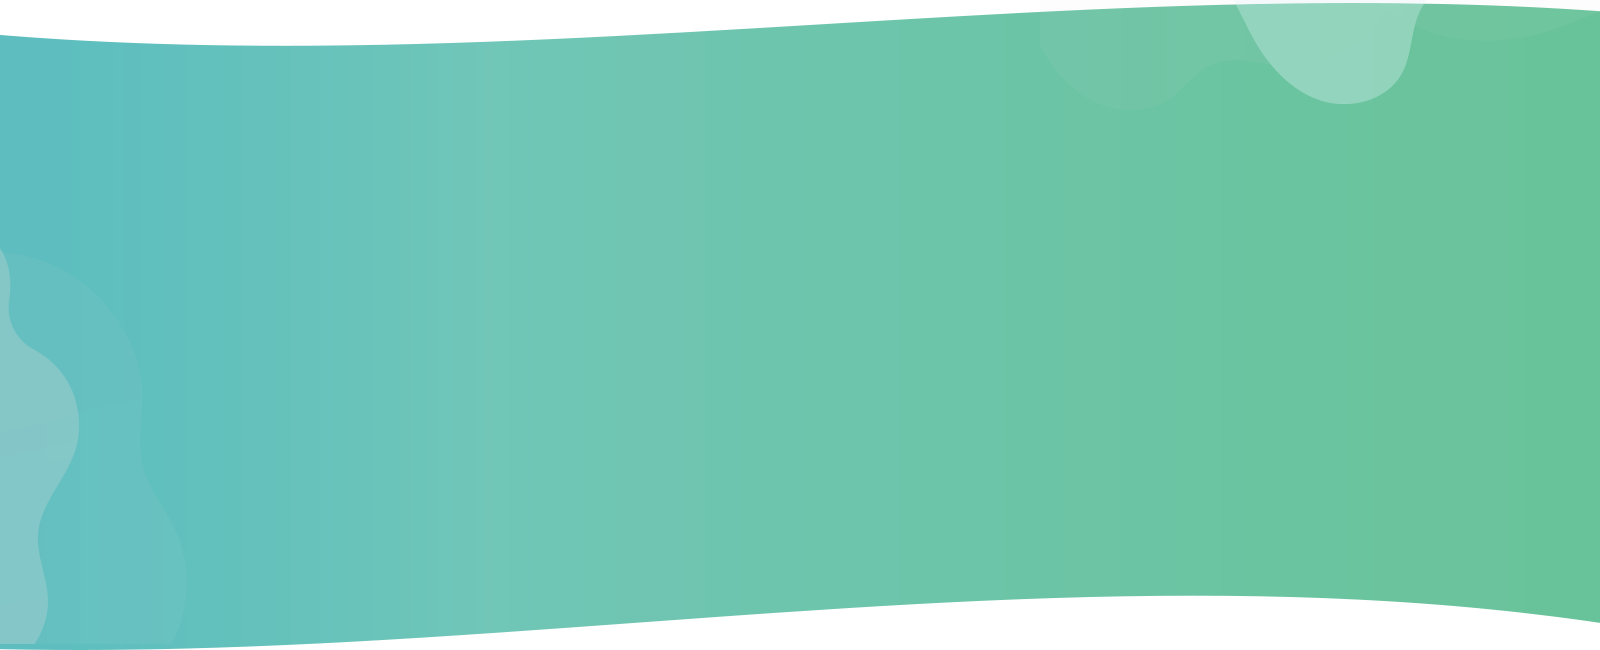
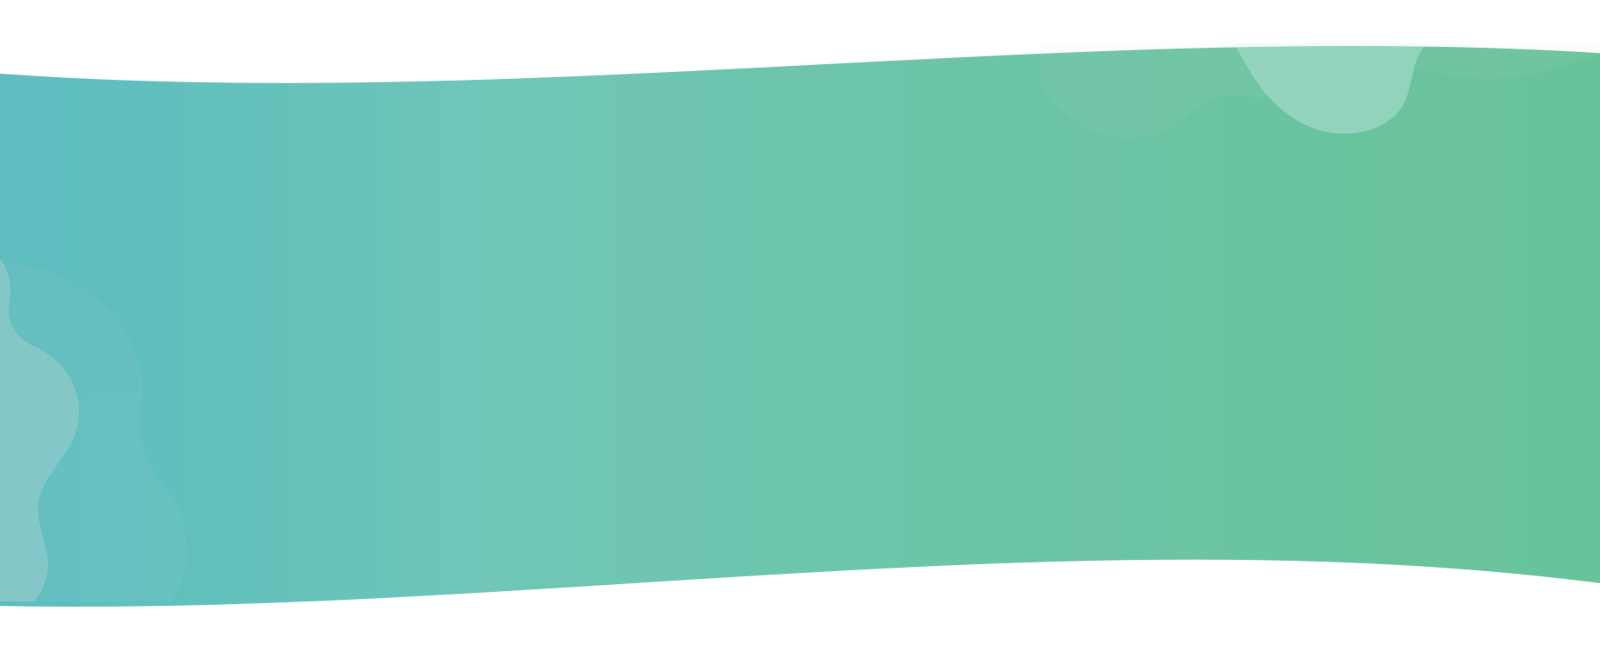
Hotfix: background muy alto y corrección en los botones del nav

diff --git a/portal/src/App.vue b/portal/src/App.vue
@@ -21,7 +21,7 @@ onMounted(() => {
 })</script>
 
 <template>
-  <header ref="header" class="rounded-4 shadow-sm d-flex flex-row justify-content-center align-items-center">
+  <header id="header" ref="header" class="rounded-4 shadow-sm d-flex flex-row justify-content-center align-items-center">
     <div id="header-container">
       <RouterLink to="/">
         <img alt="CEDICA logo" class="logo" src="@/assets/logos/Imagotipo CEDICA.png" height="35" />
@@ -29,7 +29,7 @@ onMounted(() => {
   
       <div class="wrapper">
         <nav class="d-flex flex-row">
-          <RouterLink to="#about">Sobre nosotros</RouterLink>
+          <a href="/#main">Sobre nosotros</a>
           <RouterLink to="/articles">Artículos</RouterLink>
           <a class="nav-button" href="/#contact">Contactanos</a>
         </nav>

diff --git a/portal/src/views/HomeView.vue b/portal/src/views/HomeView.vue
@@ -5,7 +5,7 @@ import Contact from '../components/Contact.vue'
 </script>
 
 <template>
-  <main>
+  <main id="main">
     <Home />
     <Articles />
     <Contact />
